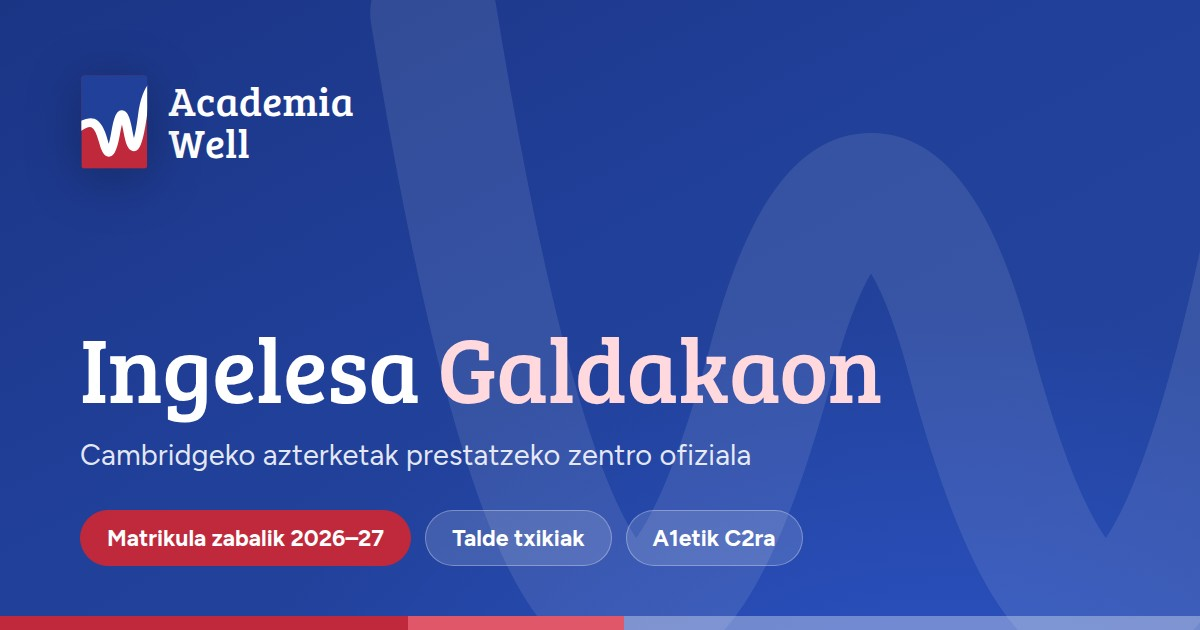
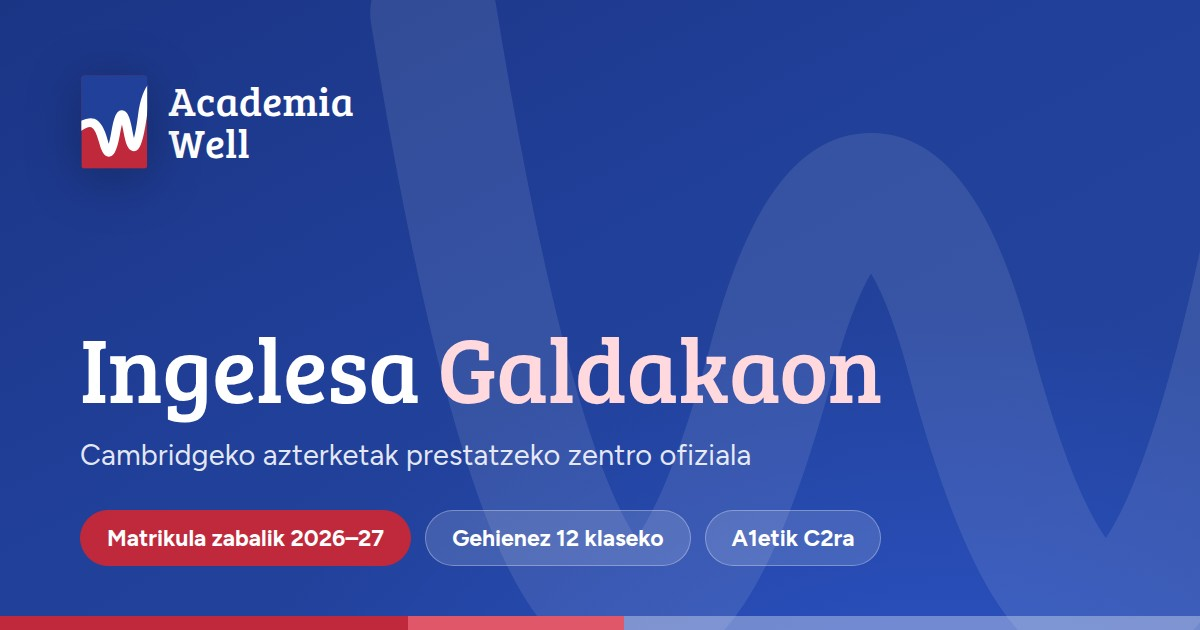
Sustituye el reclamo de grupos reducidos por el dato de 12 por clase
Los grupos son de hasta 12 alumnos, así que "grupos reducidos" y "grupos
pequeños" pasan a decir la cifra concreta en las dos versiones del sitio:
menú, portada, descripciones de buscador y tarjetas de compartir.

Claude-Session: https://claude.ai/code/session_01MRE2TKzQrAbWiWDvnrTeaz

Changed region(s): [[0.37, 0.7841, 0.74, 0.9048]]

diff --git a/index.html b/index.html
@@ -12,7 +12,7 @@
 <meta property="og:locale" content="es_ES">
 <meta property="og:locale:alternate" content="eu_ES">
 <meta property="og:title" content="Academia Well · Inglés en Galdakao · Centro preparador oficial de Cambridge">
-<meta property="og:description" content="Academia de inglés en Galdakao. Centro preparador oficial de Cambridge. Grupos reducidos, de A1 a C2.">
+<meta property="og:description" content="Academia de inglés en Galdakao. Centro preparador oficial de Cambridge. Hasta 12 alumnos por clase, de A1 a C2.">
 <meta property="og:url" content="https://inigoangulo93.github.io/academia-well/index.html">
 <meta property="og:image" content="https://inigoangulo93.github.io/academia-well/og.jpg">
 <meta property="og:image:type" content="image/jpeg">
@@ -21,9 +21,9 @@
 <meta property="og:image:alt" content="Academia Well · Inglés en Galdakao · Centro preparador oficial de Cambridge">
 <meta name="twitter:card" content="summary_large_image">
 <meta name="twitter:title" content="Academia Well · Inglés en Galdakao · Centro preparador oficial de Cambridge">
-<meta name="twitter:description" content="Academia de inglés en Galdakao. Centro preparador oficial de Cambridge. Grupos reducidos, de A1 a C2.">
+<meta name="twitter:description" content="Academia de inglés en Galdakao. Centro preparador oficial de Cambridge. Hasta 12 alumnos por clase, de A1 a C2.">
 <meta name="twitter:image" content="https://inigoangulo93.github.io/academia-well/og.jpg">
-<meta name="description" content="Academia de inglés en Galdakao. Centro preparador oficial de Cambridge. Grupos reducidos, de A1 a C2. Entrada por edad hasta los 10 años y por nivel desde los 11.">
+<meta name="description" content="Academia de inglés en Galdakao. Centro preparador oficial de Cambridge. Hasta 12 alumnos por clase, de A1 a C2. Entrada por edad hasta los 10 años y por nivel desde los 11.">
[1 lines of base64/hex data omitted]
 <link rel="preconnect" href="https://fonts.googleapis.com">
 <link href="https://fonts.googleapis.com/css2?family=Bree+Serif&family=Figtree:wght@400;500;600;700&display=swap" rel="stylesheet">
@@ -588,7 +588,7 @@
       <li class="has-drop">
         <button type="button" aria-expanded="false" aria-haspopup="true">La academia <span class="caret"></span></button>
         <div class="drop" role="menu">
-          <a href="#metodo" role="menuitem">Nuestro m&eacute;todo<span>Grupos reducidos, material propio, informes</span></a>
+          <a href="#metodo" role="menuitem">Nuestro m&eacute;todo<span>Hasta 12 por clase, material propio, informes</span></a>
           <a href="#faq" role="menuitem">Preguntas frecuentes<span>Matr&iacute;cula, niveles, pruebas de acceso</span></a>
           <a href="#contacto" role="menuitem">D&oacute;nde estamos<span>C/ Lapurdi 36, Galdakao</span></a>
         </div>
@@ -623,7 +623,7 @@
   <div class="wrap">
     <span class="badge stagger s1"><span class="cam-ico">C</span>Centro preparador oficial de Cambridge</span>
     <h1 class="stagger s2">Tu academia de ingl&eacute;s de toda la vida en Galdakao</h1>
-    <p class="lead stagger s3">Grupos peque&ntilde;os, profes que te conocen por tu nombre y todos los niveles, de A1 a Proficiency. Empezamos la primera semana de octubre.</p>
+    <p class="lead stagger s3">Hasta 12 alumnos por clase, profes que te conocen por tu nombre y todos los niveles, de A1 a Proficiency. Empezamos la primera semana de octubre.</p>
     <div class="trust-line stagger s4">
       <span class="stars">&#9733;&#9733;&#9733;&#9733;&#9733;</span>
       <span>5,0 en Google &middot; m&aacute;s de 10 a&ntilde;os en Lapurdi Kalea 36</span>

diff --git a/eu/index.html b/eu/index.html
@@ -12,7 +12,7 @@
 <meta property="og:locale" content="eu_ES">
 <meta property="og:locale:alternate" content="es_ES">
 <meta property="og:title" content="Academia Well · Ingelesa Galdakaon · Cambridgeko zentro prestatzaile ofiziala">
-<meta property="og:description" content="Ingeles akademia Galdakaon. Cambridgeko azterketak prestatzeko zentro ofiziala. Talde txikiak, A1etik C2ra.">
+<meta property="og:description" content="Ingeles akademia Galdakaon. Cambridgeko azterketak prestatzeko zentro ofiziala. Gehienez 12 ikasle klaseko, A1etik C2ra.">
 <meta property="og:url" content="https://inigoangulo93.github.io/academia-well/eu/index.html">
 <meta property="og:image" content="https://inigoangulo93.github.io/academia-well/og-eu.jpg">
 <meta property="og:image:type" content="image/jpeg">
@@ -21,9 +21,9 @@
 <meta property="og:image:alt" content="Academia Well · Inglés en Galdakao · Centro preparador oficial de Cambridge">
 <meta name="twitter:card" content="summary_large_image">
 <meta name="twitter:title" content="Academia Well · Ingelesa Galdakaon · Cambridgeko zentro prestatzaile ofiziala">
-<meta name="twitter:description" content="Ingeles akademia Galdakaon. Cambridgeko azterketak prestatzeko zentro ofiziala. Talde txikiak, A1etik C2ra.">
+<meta name="twitter:description" content="Ingeles akademia Galdakaon. Cambridgeko azterketak prestatzeko zentro ofiziala. Gehienez 12 ikasle klaseko, A1etik C2ra.">
 <meta name="twitter:image" content="https://inigoangulo93.github.io/academia-well/og-eu.jpg">
-<meta name="description" content="Ingeles akademia Galdakaon. Cambridgeko azterketak prestatzeko zentro ofiziala. Talde txikiak, A1etik C2ra.">
+<meta name="description" content="Ingeles akademia Galdakaon. Cambridgeko azterketak prestatzeko zentro ofiziala. Gehienez 12 ikasle klaseko, A1etik C2ra.">
[1 lines of base64/hex data omitted]
 <link rel="preconnect" href="https://fonts.googleapis.com">
 <link href="https://fonts.googleapis.com/css2?family=Bree+Serif&family=Figtree:wght@400;500;600;700&display=swap" rel="stylesheet">
@@ -588,7 +588,7 @@
       <li class="has-drop">
         <button type="button" aria-expanded="false" aria-haspopup="true">Akademia <span class="caret"></span></button>
         <div class="drop" role="menu">
-          <a href="#metodo" role="menuitem">Gure metodoa<span>Talde txikiak, material propioa, txostenak</span></a>
+          <a href="#metodo" role="menuitem">Gure metodoa<span>Gehienez 12 klaseko, material propioa, txostenak</span></a>
           <a href="#faq" role="menuitem">Ohiko galderak<span>Matrikula, mailak, sarrera-probak</span></a>
           <a href="#contacto" role="menuitem">Non gauden<span>Lapurdi kalea 36, Galdakao</span></a>
         </div>
@@ -623,7 +623,7 @@
   <div class="wrap">
     <span class="badge stagger s1"><span class="cam-ico">C</span>Cambridgeko azterketak prestatzeko zentro ofiziala</span>
     <h1 class="stagger s2">Galdakaoko betiko ingeles akademia</h1>
-    <p class="lead stagger s3">Talde txikiak, zure izenez ezagutzen zaituzten irakasleak eta maila guztiak, A1etik Proficiency-ra. Urriaren lehen astean hasiko gara.</p>
+    <p class="lead stagger s3">Gehienez 12 ikasle klaseko, zure izenez ezagutzen zaituzten irakasleak eta maila guztiak, A1etik Proficiency-ra. Urriaren lehen astean hasiko gara.</p>
     <div class="trust-line stagger s4">
       <span class="stars">&#9733;&#9733;&#9733;&#9733;&#9733;</span>
       <span>5,0 Google-n &middot; 10 urte baino gehiago Lapurdi kalea 36an</span>

diff --git a/calendario.html b/calendario.html
@@ -587,7 +587,7 @@
       <li class="has-drop">
         <button type="button" aria-expanded="false" aria-haspopup="true">La academia <span class="caret"></span></button>
         <div class="drop" role="menu">
-          <a href="index.html#metodo" role="menuitem">Nuestro m&eacute;todo<span>Grupos reducidos, material propio, informes</span></a>
+          <a href="index.html#metodo" role="menuitem">Nuestro m&eacute;todo<span>Hasta 12 por clase, material propio, informes</span></a>
           <a href="index.html#faq" role="menuitem">Preguntas frecuentes<span>Matr&iacute;cula, niveles, pruebas de acceso</span></a>
           <a href="index.html#contacto" role="menuitem">D&oacute;nde estamos<span>C/ Lapurdi 36, Galdakao</span></a>
         </div>

diff --git a/cursos.html b/cursos.html
@@ -585,7 +585,7 @@
       <li class="has-drop">
         <button type="button" aria-expanded="false" aria-haspopup="true">La academia <span class="caret"></span></button>
         <div class="drop" role="menu">
-          <a href="index.html#metodo" role="menuitem">Nuestro m&eacute;todo<span>Grupos reducidos, material propio, informes</span></a>
+          <a href="index.html#metodo" role="menuitem">Nuestro m&eacute;todo<span>Hasta 12 por clase, material propio, informes</span></a>
           <a href="index.html#faq" role="menuitem">Preguntas frecuentes<span>Matr&iacute;cula, niveles, pruebas de acceso</span></a>
           <a href="index.html#contacto" role="menuitem">D&oacute;nde estamos<span>C/ Lapurdi 36, Galdakao</span></a>
         </div>

diff --git a/eu/calendario.html b/eu/calendario.html
@@ -587,7 +587,7 @@
       <li class="has-drop">
         <button type="button" aria-expanded="false" aria-haspopup="true">Akademia <span class="caret"></span></button>
         <div class="drop" role="menu">
-          <a href="index.html#metodo" role="menuitem">Gure metodoa<span>Talde txikiak, material propioa, txostenak</span></a>
+          <a href="index.html#metodo" role="menuitem">Gure metodoa<span>Gehienez 12 klaseko, material propioa, txostenak</span></a>
           <a href="index.html#faq" role="menuitem">Ohiko galderak<span>Matrikula, mailak, sarrera-probak</span></a>
           <a href="index.html#contacto" role="menuitem">Non gauden<span>Lapurdi kalea 36, Galdakao</span></a>
         </div>

diff --git a/eu/cursos.html b/eu/cursos.html
@@ -585,7 +585,7 @@
       <li class="has-drop">
         <button type="button" aria-expanded="false" aria-haspopup="true">Akademia <span class="caret"></span></button>
         <div class="drop" role="menu">
-          <a href="index.html#metodo" role="menuitem">Gure metodoa<span>Talde txikiak, material propioa, txostenak</span></a>
+          <a href="index.html#metodo" role="menuitem">Gure metodoa<span>Gehienez 12 klaseko, material propioa, txostenak</span></a>
           <a href="index.html#faq" role="menuitem">Ohiko galderak<span>Matrikula, mailak, sarrera-probak</span></a>
           <a href="index.html#contacto" role="menuitem">Non gauden<span>Lapurdi kalea 36, Galdakao</span></a>
         </div>
